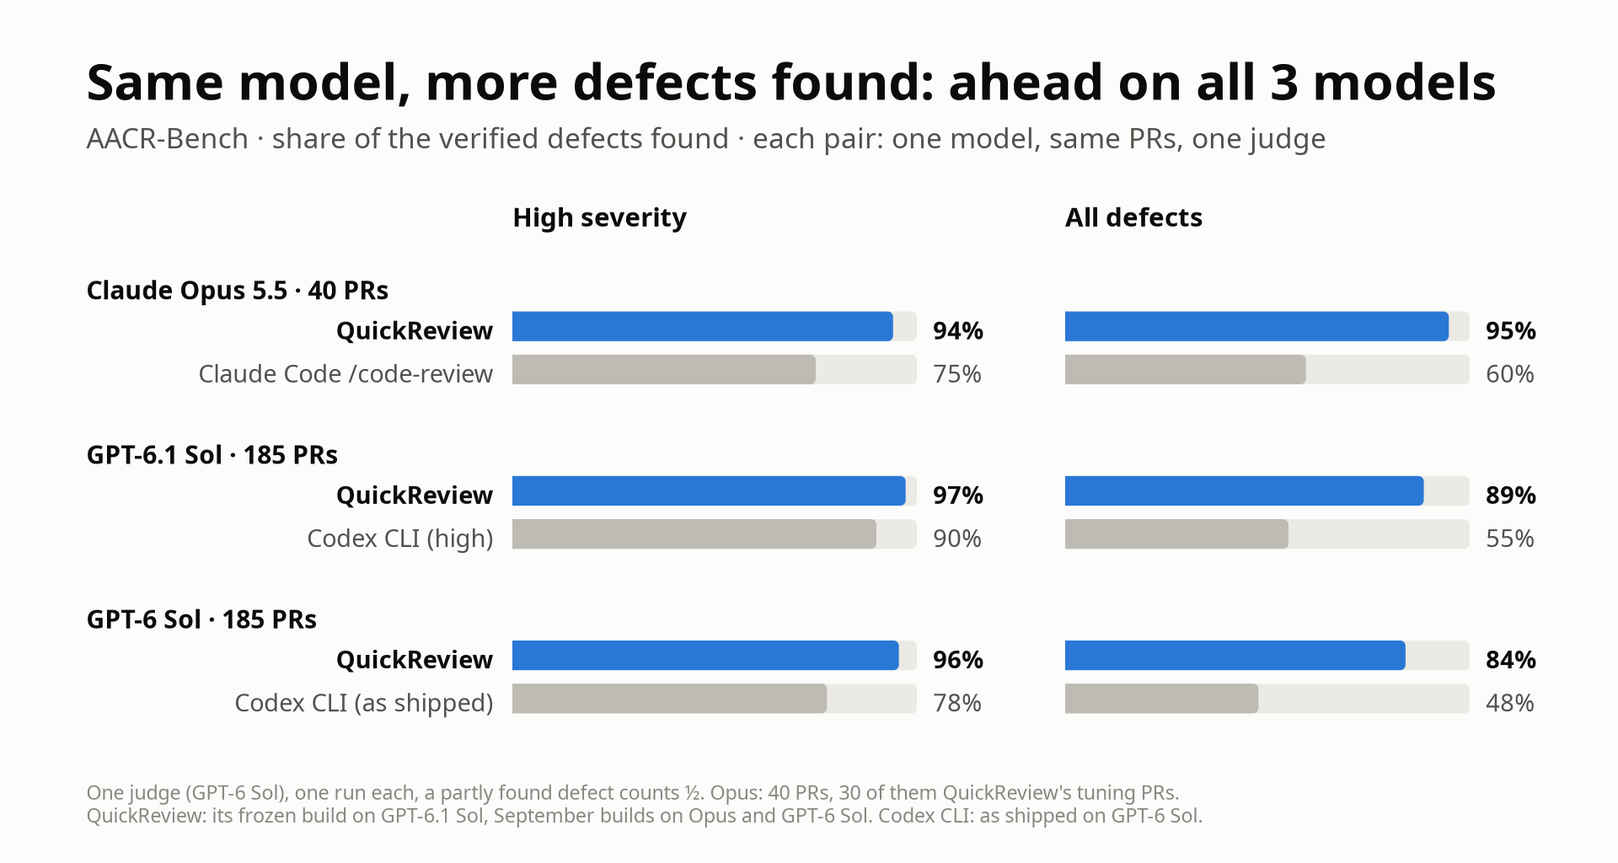
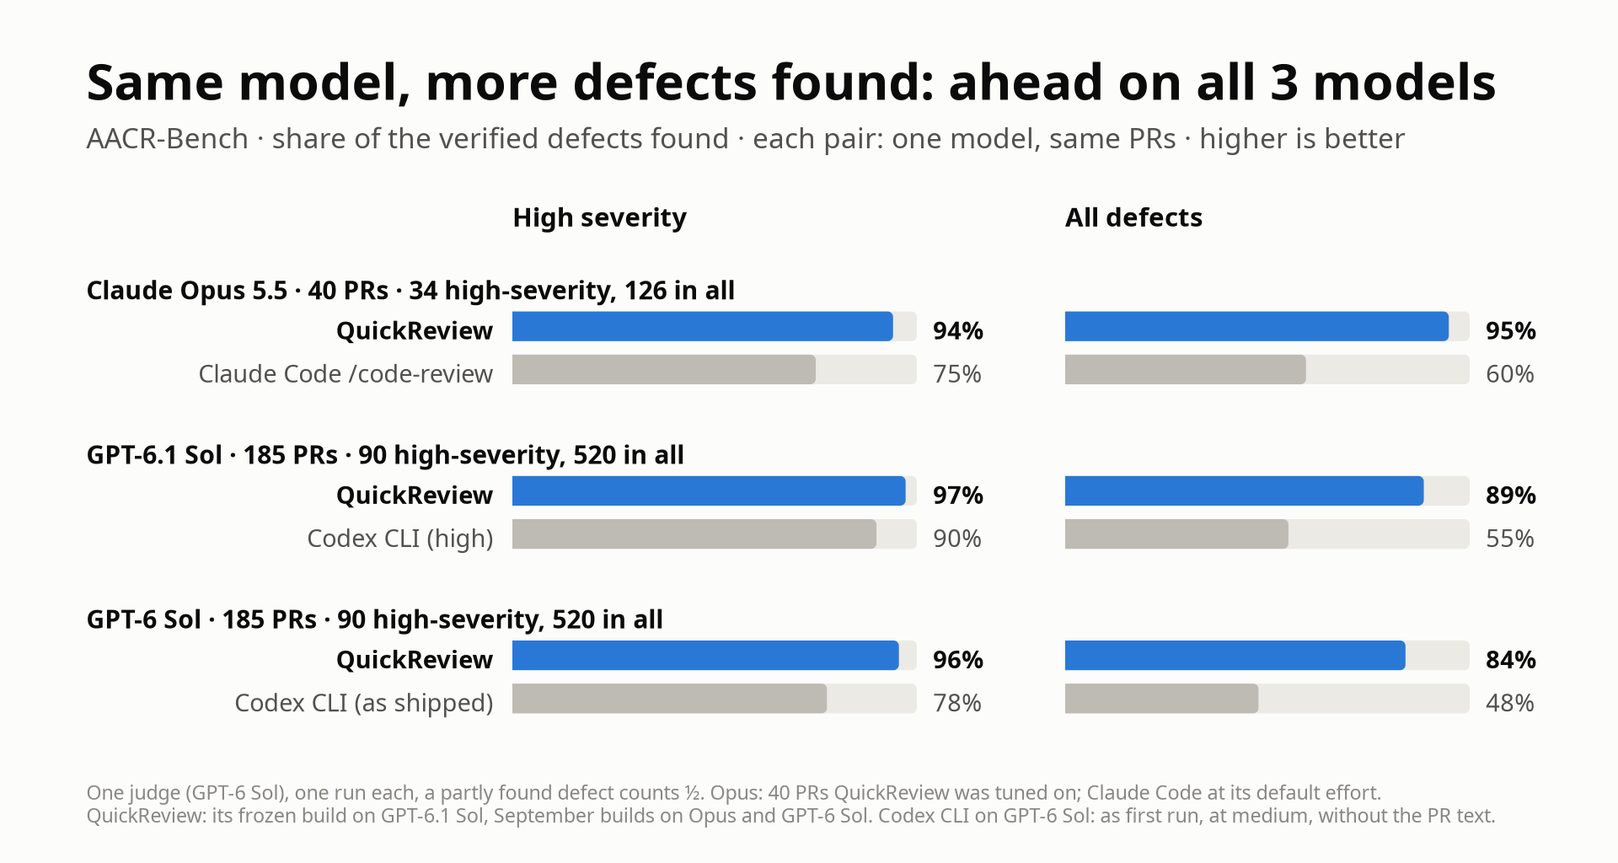
README benchmarks: every new claim scoped to what the runs trace
A verification pass over the new text and charts. The hero names the
model, quotes both metrics for both same-model pairs, says the 109 PRs
are found in full, and carries the tuning disclosure. The same-model
paragraph no longer reads a harness effect into a two-tool contrast, and
the Opus pair is all tuning PRs. The Elo chart's title is the one
separated pair, its set rule and builds are named, and Claude Code max
names its Opus main model. The other-models table names efforts, builds
and the best third-party count per column; GLM lost a pass on 7 PRs, not
10. The misses chart repeated the hero's middle panel and is gone. The
held-out Qodo F1 is level, not a lead. readme_charts.py pins the
all-defect totals to tab:final and requires a 2-point lead for a title.

diff --git a/bench/aacr/showcase/readme_charts.py b/bench/aacr/showcase/readme_charts.py
@@ -11,7 +11,7 @@ The numbers are the papers' tables, copied here with the table each row comes fr
 README's charts and its prose read the same source: AACR-Bench is benchmark.tex Table
 tab:final (QuickReview's row: its frozen build, quickreview.tex Table tab:frozen), Martian is
 benchmark.tex Table tab:martianfinal, Qodo is benchmark.tex Table tab:qodo. The serious-defect
-counts (bench-hero, bench-misses) are computed from the per-defect credits in data/aacr.json,
+counts (bench-hero) are computed from the per-defect credits in data/aacr.json,
 the same runs as tab:final. Every title is computed from the rows. The look is v4's (theme_v4);
 the images carry no repo file names.
 """
@@ -70,20 +70,21 @@ QODO = [  # (name, precision, recall)
 
 # The same base model in two reviewers, AACR-Bench, one judge (GPT-6 Sol at high) for both rows of a pair.
 SAME_MODEL = [  # (model, PRs, high defects, all defects, [(reviewer, high found, all found)])
-    # quickreview.tex Table tab:bm40 (QuickReview on Opus, 40 PRs: smoke10, dev10, holdout10, fresh10) and
+    # quickreview.tex Table tab:bm40 (QuickReview on Opus, the 40 T40 PRs it was tuned on, September build) and
     # benchmark.tex Table tab:halves-sol (Claude Code on the same 40, its 185-PR runs cut to them).
     ("Claude Opus 5.5", 40, 34, 126, [("QuickReview", 32, 119.5), ("Claude Code /code-review", 25.5, 75)]),
     # benchmark.tex Table tab:final: the frozen build and Codex CLI at high.
     ("GPT-6.1 Sol", 185, 90, 520, [("QuickReview", 87.5, 461), ("Codex CLI (high)", 81, 287)]),
-    # benchmark.tex Table tab:sol-summary: the original default run and Codex CLI as shipped (medium).
+    # benchmark.tex Table tab:sol-summary: the original default run and Codex CLI as first run (medium, no PR text).
     ("GPT-6 Sol", 185, 90, 520, [("QuickReview", 86, 437.5), ("Codex CLI (as shipped)", 70, 248.5)]),
 ]
 
-# Pairwise Elo on Martian's hard20 (the 20 PRs QuickReview on GPT-6.1 Sol and DeepSeek V4.1 Flash did worst
-# on), both judges pooled: the "Combined" table of the run archive's elo/martian-hard20-all-gpt/REPORT.md.
-# QuickReview's Opus and Sonnet runs kept the image's six quality lenses on GPT-6 Luna (about a fifth of calls).
+# Pairwise Elo on Martian's hard20 (the 20 PRs QuickReview on GPT-6.1 Sol or DeepSeek V4.1 Flash did worst on
+# against its own average), both judges pooled: the "Combined" table of the run archive's
+# elo/martian-hard20-all-gpt/REPORT.md. QuickReview's Opus and Sonnet runs kept the image's six lenses pinned to
+# GPT-6 Luna (maintainability, duplication, abstraction, consistency, placement, simplicity).
 ELO = [  # (name, Elo, 95% low, 95% high, QuickReview?)
-    ("Claude Code max (Sonnet 5.5 agents)", 1666, 1581, 1794, False),
+    ("Claude Code max (Opus + Sonnet 5.5)", 1666, 1581, 1794, False),
     ("QuickReview (Opus 5.5)*", 1628, 1567, 1726, True),
     ("QuickReview (GPT-6.1 Sol)", 1566, 1486, 1662, True),
     ("Claude Code high (Opus 5.5)", 1518, 1425, 1629, False),
@@ -92,7 +93,8 @@ ELO = [  # (name, Elo, 95% low, 95% high, QuickReview?)
     ("Claude Code high (Sonnet 5.5)", 1398, 1290, 1456, False),
     ("QuickReview (GLM-5.3 Flash)", 1329, 1110, 1477, True),
 ]
-ELO_DIRECT = ("QuickReview (Opus 5.5)*", "Claude Code high (Opus 5.5)", 29, 11)  # the pair's direct record, both judges
+# One pair from the same REPORT's every-pair table: direct record over both judges, and the gap's 95% interval.
+ELO_DIRECT = ("QuickReview (Opus 5.5)*", "Claude Code high (Opus 5.5)", 29, 11, (31, 196))
 
 DATA = os.path.join(os.path.dirname(os.path.abspath(__file__)), "data", "aacr.json")
 KEYS = {"quickreview": QR, "pi-review": "pi-review panel", "claude-code": "Claude Code",
@@ -114,7 +116,8 @@ def serious():
                    "found": sum(x["credit"][k] for x in ser),
                    "clean": sum(all(x["credit"][k] == 1.0 for x in xs) for xs in prs.values())}
             for k, name in KEYS.items()}
-    assert {n: r["high"] for n, r in rows.items()} == {r[0]: r[1] for r in AACR}, "data/aacr.json is not tab:final"
+    assert {n: (r["high"], sum(x["credit"][k] for x in d["defects"])) for k, n in KEYS.items() for r in [rows[n]]} \
+        == {r[0]: (r[1], r[2]) for r in AACR}, "data/aacr.json is not tab:final"
     return rows, len(high), len(ser), len(prs), d["cases"]
 
 
@@ -212,25 +215,30 @@ def fig_qodo(T):
         lambda q: q[1], lambda q: q[2])
 
 
-AACR_SOURCE = ("520 defects each verified in the code; one judge (GPT-6 Sol), one run per reviewer, a partly found "
-               "defect counts ½.\nQuickReview: its frozen build. " + OTHERS)
+HERO_SOURCE = ("520 defects each verified in the code; one judge (GPT-6 Sol), one run each, a partly found one counts ½. "
+               + OTHERS.replace("Other reviewers: all", "Others").replace(" (Claude Opus 5.5)", " (Opus 5.5)")
+               + "\nQuickReview: its frozen build, its last changes mined from its misses on 145 of these PRs; on the 20 "
+                 "kept out, it finds 83% of all defects, the next best 72%.")
+MARGIN = {"high": 2.0, "missed": 2.0, "clean": 2.0}  # never headline a lead under 2 points (or 2 per 100 PRs, 2 PRs)
 
 
 def fig_hero(T):
     """Three numbers on serious defects, each over the field it was measured against."""
     S, n_high, n_ser, n_prs, n_cases = serious()
-    best = {"high": max, "missed": min, "clean": max}
-    lead = all(S[QR][k] == f(r[k] for r in S.values()) for k, f in best.items())
+    def gap(k, sign):  # QuickReview's lead over the next reviewer, in the panel's own unit (points for high)
+        nxt = max(sign * r[k] for n, r in S.items() if n != QR)
+        return (sign * S[QR][k] - nxt) * (100 / n_high if k == "high" else 1)
+    lead = all(gap(k, sg) >= MARGIN[k] for k, sg in (("high", 1), ("missed", -1), ("clean", 1)))
     p = Page4(T, h=560)
-    p.title("Most serious defects found, fewest missed" if lead else "Serious defects found and missed")
+    p.title("Most high-severity defects found, fewest serious missed" if lead else "Serious defects found and missed")
     p.metric(f"AACR-Bench · {n_cases} real PRs · serious = the {n_ser} high- and medium-severity defects · "
              "QuickReview on GPT-6.1 Sol")
     panels = [  # (key, big number, what it is, the bar's full length, a bar's value label, higher is better)
         ("high", pct(100 * S[QR]["high"] / n_high), f"of the {n_high} high-severity defects found", n_high,
          lambda v: pct(100 * v / n_high), True),
-        ("missed", f"{S[QR]['missed']:.0f}", "serious defects missed per 100 PRs",
+        ("missed", f"{S[QR]['missed']:.1f}", "serious defects missed per 100 PRs",
          max(r["missed"] for r in S.values()), lambda v: f"{v:.1f}", False),
-        ("clean", f"{S[QR]['clean']} of {n_prs}", "PRs with every serious defect found", n_prs,
+        ("clean", f"{S[QR]['clean']} of {n_prs}", "PRs with every serious defect found in full", n_prs,
          lambda v: f"{v:.0f}", True),
     ]
     col, top = 372, 296
@@ -239,35 +247,21 @@ def fig_hero(T):
         rows = sorted(S.items(), key=lambda kv: -kv[1][k] if up else kv[1][k])
         nxt = next(r for n, r in rows if n != QR)
         p.text(x0, 196, big, size=50, weight="bold", color=T["qr"], va="baseline")
-        p.text(x0, 232, what, size=14.5, va="baseline")
-        p.text(x0, 258, f"next best: {fmt(nxt[k])}", size=12.5, color=T["ink2"], va="baseline")
+        p.text(x0, 232, what, size=13.5, va="baseline")
+        p.text(x0, 258, f"next best: {fmt(nxt[k])} · {'higher' if up else 'lower'} is better", size=12.5,
+               color=T["ink2"], va="baseline")
         pitch = 26
         for j, (name, r) in enumerate(rows):
             y = top + pitch * (j + 0.5)
             ours = name == QR
             ink, wt = (T["ink"], "bold") if ours else (T["ink2"], "normal")
-            bx0, bx1 = x0 + 128, x0 + 268
+            bx0, bx1 = x0 + 128, x0 + 250
             if up:
                 theme.bar(p.c, bx0, bx1, y, 14, T["empty"], zorder=2)
             theme.bar(p.c, bx0, bx0 + (bx1 - bx0) * r[k] / vmax, y, 14, T["qr"] if ours else T["other"], zorder=3)
-            p.text(bx0 - 10, y, "QuickReview" if ours else name, ha="right", size=11, color=ink, weight=wt)
-            p.text((bx1 if up else bx0 + (bx1 - bx0) * r[k] / vmax) + 8, y, fmt(r[k]), size=11, color=ink, weight=wt)
-    p.source(AACR_SOURCE)
-    return p
-
-
-def fig_misses(T):
-    """Serious defects missed per 100 PRs: the shortest bar is the best reviewer."""
-    S, _, n_ser, _, n_cases = serious()
-    rows = sorted(S.items(), key=lambda kv: kv[1]["missed"])
-    p = Page4(T, h=600)
-    p.title("Misses the fewest serious defects" if rows[0][0] == QR else "Serious defects missed")
-    p.metric(f"AACR-Bench · {n_cases} real PRs · high- and medium-severity defects missed per 100 PRs "
-             f"({n_ser} in all) · lower is better")
-    theme.bar_rows(p, [{"name": n, "value": r["missed"], "qr": n == QR,
-                        "label": f"{r['missed']:.1f}   finds {pct(100 * r['found'] / n_ser)}"} for n, r in rows],
-                   330, 1000, 170, p.h - 96, max(r["missed"] for _, r in rows))
-    p.source(AACR_SOURCE)
+            p.text(bx0 - 10, y, "QuickReview" if ours else name, ha="right", size=12, color=ink, weight=wt)
+            p.text((bx1 if up else bx0 + (bx1 - bx0) * r[k] / vmax) + 8, y, fmt(r[k]), size=12, color=ink, weight=wt)
+    p.source(HERO_SOURCE)
     return p
 
 
@@ -277,7 +271,7 @@ def fig_same_model(T):
     p = Page4(T, h=640)
     p.title(f"Same model, more defects found: ahead on all {len(SAME_MODEL)} models" if lead
             else "Same model, two reviewers")
-    p.metric("AACR-Bench · share of the verified defects found · each pair: one model, same PRs, one judge")
+    p.metric("AACR-Bench · share of the verified defects found · each pair: one model, same PRs · higher is better")
     cols = [("High severity", 1, 2, 380), ("All defects", 2, 3, 790)]
     top, width = 190, 300
     for head, _, _, x0 in cols:
@@ -285,7 +279,8 @@ def fig_same_model(T):
     y = top
     for model, n_prs, n_high, n_all, pair in SAME_MODEL:
         y += 22
-        p.text(64, y, f"{model} · {n_prs} PRs", size=13.5, weight="bold", color=T["ink"])
+        p.text(64, y, f"{model} · {n_prs} PRs · {n_high} high-severity, {n_all} in all", size=13.5, weight="bold",
+               color=T["ink"])
         y += 30
         for name, *found in pair:
             ours = name == "QuickReview"
@@ -298,23 +293,23 @@ def fig_same_model(T):
                 p.text(x0 + width + 12, y, pct(100 * share), size=13, color=ink, weight=wt)
             y += 32
         y += 6
-    p.source("One judge (GPT-6 Sol), one run each, a partly found defect counts ½. Opus: 40 PRs, 30 of them QuickReview's "
-             "tuning PRs.\nQuickReview: its frozen build on GPT-6.1 Sol, September builds on Opus and GPT-6 Sol. "
-             "Codex CLI: as shipped on GPT-6 Sol.")
+    p.source("One judge (GPT-6 Sol), one run each, a partly found defect counts ½. Opus: 40 PRs QuickReview was tuned on; "
+             "Claude Code at its default effort.\nQuickReview: its frozen build on GPT-6.1 Sol, September builds on Opus "
+             "and GPT-6 Sol. Codex CLI on GPT-6 Sol: as first run, at medium, without the PR text.")
     return p
 
 
 def fig_elo(T):
     """A pairwise Elo leaderboard: a dot per configuration, its 95% interval as a whisker."""
     rows = sorted(ELO, key=lambda r: -r[1])
-    first = next(k for k, r in enumerate(rows) if r[4])
-    title = (f"Judged side by side: {ordinal(first + 1)} of {len(rows)}, behind only {rows[0][0].split(' (')[0]}"
-             if first == 1 else f"Judged side by side: {ordinal(first + 1)} of {len(rows)}")
+    _, _, w, l, gap = ELO_DIRECT
+    separated = gap[0] > 0 and w > l  # the gap's interval excludes zero, and it won the games
     p = Page4(T, h=640)
-    p.title(title)
-    p.metric(f"Martian · the 20 PRs QuickReview did worst on · pairwise Elo with 95% intervals · higher is better")
+    p.title(f"On Opus 5.5, QuickReview beats Claude Code high {w}–{l}" if separated
+            else "Judged side by side")
+    p.metric("Martian · 20 PRs where QuickReview (GPT-6.1 Sol, DeepSeek) did worst · Elo, 95% intervals · higher is better")
     lo, hi = 1100, 1850
-    x0, x1, top, bottom = 400, p.w - 90, 186, p.h - 110
+    x0, x1, top, bottom = 420, p.w - 90, 186, p.h - 110
     X = lambda v: x0 + (x1 - x0) * (v - lo) / (hi - lo)  # noqa: E731
     for v in range(lo, hi + 1, 150):
         p.c.plot([X(v)] * 2, [top - 10, bottom + 4], color=T["grid"], lw=1, zorder=1)
@@ -328,13 +323,13 @@ def fig_elo(T):
         dot(p, X(elo), y, 7, fill, zorder=5)
         p.text(x0 - 16, y, name, ha="right", size=13, color=ink, weight=wt)
         p.text(X(b) + 10, y, str(elo), size=12, color=ink, weight=wt)
-    a, b, w, l = ELO_DIRECT
-    p.source("Two judges pooled, GPT-6.1 Sol and Claude Opus 5.5, each reading both reviews blind; alone, each favours its "
-             f"own model family.\n* Six quality lenses on GPT-6 Luna. Head to head, {a.rstrip('*')} beat {b} {w}–{l}.")
+    p.source(f"Two judges pooled (GPT-6.1 Sol, Claude Opus 5.5), each reading both reviews blind; {w}–{l} is their verdicts "
+             "on 20 PRs.\n* Six of its lenses on GPT-6 Luna. QuickReview builds: Oct 3 on GPT-6.1 Sol, mid-October on "
+             "DeepSeek and GLM, Oct 20 on Opus and Sonnet.")
     return p
 
 
-FIGURES = {"bench-hero": fig_hero, "bench-misses": fig_misses, "bench-same-model": fig_same_model,
+FIGURES = {"bench-hero": fig_hero, "bench-same-model": fig_same_model,
            "bench-aacr": fig_aacr, "bench-martian": fig_martian, "bench-qodo": fig_qodo, "bench-elo": fig_elo}
 
 

diff --git a/README.md b/README.md
@@ -20,18 +20,20 @@ re-derives every candidate from the code** before one review is posted.
 
 <picture>
   <source media="(prefers-color-scheme: dark)" srcset="docs/media/bench-hero-dark.png">
-  <img src="docs/media/bench-hero.png" alt="AACR-Bench, 185 real PRs, QuickReview on GPT-6.1 Sol against six other reviewers. High-severity defects found: QuickReview 97%, next best Codex CLI 90%. Serious (high- and medium-severity) defects missed per 100 PRs: QuickReview 7, next best pi-review panel 19.5, worst PR-Agent 59.2. PRs with every serious defect found: QuickReview 109 of 122, next best pi-review panel 90.">
+  <img src="docs/media/bench-hero.png" alt="AACR-Bench, 185 real PRs, QuickReview on GPT-6.1 Sol against six other reviewers. High-severity defects found: QuickReview 97%, next best Codex CLI 90%. Serious (high- and medium-severity) defects missed per 100 PRs: QuickReview 7, next best pi-review panel 19.5, worst PR-Agent 59.2. PRs with every serious defect found in full: QuickReview 109 of 122, next best pi-review panel 90.">
 </picture>
 
-On 185 real PRs with 520 defects each verified in the code, it finds
-**97% of the high-severity defects** and **89% of all of them**. It misses
-**7 serious defects per 100 PRs**, where the best of the six other reviewers
-we ran misses 19.5, and on **109 of the 122 PRs** that carry a high- or
-medium-severity defect it finds every one. It is not just the model: on the
-same model it finds more than the model maker's own reviewer, 94% of the
-high-severity defects against 75% for Claude Code on Claude Opus 5.5 (40
-PRs), and 89% of all defects against 55% for Codex CLI on GPT-6.1 Sol. That
-recall costs more: about $2 and 17 minutes per PR, where the other tools take
+On 185 real PRs with 520 defects each verified in the code, QuickReview on
+GPT-6.1 Sol finds **97% of the high-severity defects** and **89% of all of
+them**. It misses **7 serious defects per 100 PRs**, where the best of the six
+other reviewers we ran misses 19.5, and on **109 of the 122 PRs** that carry a
+high- or medium-severity defect it finds every one in full. On the same model
+it also finds more than the model maker's own reviewer: 97% and 89% against
+90% and 55% for Codex CLI on GPT-6.1 Sol, and 94% and 95% against 75% and 60%
+for Claude Code's `/code-review` on Claude Opus 5.5 (40 PRs it was tuned on).
+Its last changes were mined from its misses on 145 of the 185 PRs; on the 20
+kept out, it finds 83% of all defects and the next best 72%. That recall costs
+more: about $2 and 17.5 minutes per PR, where the other tools take
 $0.07–0.53 and 0.7–2.3 minutes ([Benchmarks](#benchmarks)).
 
 <p align="center">
@@ -80,10 +82,12 @@ The lens catalogue, with each lens's trigger and severity cap, is §3.3 of the
 
 Recall is the headline: a review that misses the defect has failed, whatever
 else it does. Precision, cost and time are shown beside it, because that is
-where QuickReview pays. Its results are the frozen build of 2026-10-04 on
-`gpt-6.1-sol`, shipped defaults, one review per PR. The third-party tools we
-ran used the best configuration we found for each, the OpenAI-based ones on
-the same model, under the same judge on the same PRs.
+where QuickReview pays. Unless a chart or table names another build or model,
+its results are the frozen build of 2026-10-04 on `gpt-6.1-sol`, shipped
+defaults, one review per PR. The third-party tools we ran used the best
+configuration we found for each (except Claude Code, which ran `/code-review`
+at its default effort and was not varied), the OpenAI-based ones on the same
+model, under the same judge on the same PRs.
 
 <picture>
   <source media="(prefers-color-scheme: dark)" srcset="docs/media/bench-aacr-dark.png">
@@ -97,25 +101,24 @@ under a paired bootstrap on high and on high + medium defects (+8.3 points
 [+1.9, +14.6] on high over the panel). The price: 6.9 comments per PR, 42%
 of them true but minor.
 
-<picture>
-  <source media="(prefers-color-scheme: dark)" srcset="docs/media/bench-misses-dark.png">
-  <img src="docs/media/bench-misses.png" alt="AACR-Bench, 185 PRs: high- and medium-severity defects missed per 100 PRs, 235 in all, lower is better. QuickReview 7.0 (finds 94%), pi-review panel 19.5 (85%), Codex CLI 28.4 (78%), Claude Code 31.1 (76%), OpenCode 32.4 (74%), open-code-review 37.6 (70%), PR-Agent 59.2 (53%).">
-</picture>
-
-**What it misses.** Counted the other way, on the 235 high- and
-medium-severity defects alone: QuickReview misses 13 of them (10 outright,
-6 found in part), 7 per 100 PRs; the next reviewer misses 36.
+**What it misses.** Of the 235 high- and medium-severity defects,
+QuickReview misses 13, counting a partly found defect as half (10 missed
+outright, 6 found only in part): 7 per 100 PRs. The next best, the pi-review
+panel, misses 36 (19.5 per 100 PRs). On the 20 PRs kept out of its last
+tuning round it misses 2 of 31, the panel 5.
 
 <picture>
   <source media="(prefers-color-scheme: dark)" srcset="docs/media/bench-same-model-dark.png">
   <img src="docs/media/bench-same-model.png" alt="AACR-Bench, the same base model in two reviewers, one judge. Claude Opus 5.5, 40 PRs: QuickReview found 94% of the high-severity defects and 95% of all, Claude Code /code-review 75% and 60%. GPT-6.1 Sol, 185 PRs: QuickReview 97% and 89%, Codex CLI at high 90% and 55%. GPT-6 Sol, 185 PRs: QuickReview 96% and 84%, Codex CLI as shipped 78% and 48%.">
 </picture>
 
-**Same model, two reviewers.** The lead is the harness, not the model: on
-each of the three models we ran it on, QuickReview finds more than the model
-maker's own reviewer, at several times the cost ($3.24 against $0.16 per PR
-on Opus). The Opus pair covers 40 PRs, 30 of them QuickReview's tuning PRs;
-on the other 10 it found 28 of 29 defects, Claude Code 20.
+**Same model, two reviewers.** With the model held fixed, QuickReview still
+finds more than the model maker's own reviewer on each of the three models
+where we ran both, at 11 to 20 times the cost ($3.24 against $0.16 per PR on
+Opus). This contrasts two tools, not a measured design effect: they also
+differ in budget and inputs, Claude Code ran `/code-review` at its default
+effort, the Opus and GPT-6 Sol rows are September builds of QuickReview, and
+the 40 Opus PRs are all PRs QuickReview was tuned on.
 
 <picture>
   <source media="(prefers-color-scheme: dark)" srcset="docs/media/bench-martian-dark.png">
@@ -141,17 +144,19 @@ overall, at the lowest precision; it is fourth on F1.
 
 <picture>
   <source media="(prefers-color-scheme: dark)" srcset="docs/media/bench-elo-dark.png">
-  <img src="docs/media/bench-elo.png" alt="Pairwise Elo on the 20 Martian PRs QuickReview did worst on, two judges pooled, with 95% intervals. Claude Code max with Sonnet 5.5 agents 1666, QuickReview on Opus 5.5 1628, QuickReview on GPT-6.1 Sol 1566, Claude Code high on Opus 5.5 1518, QuickReview on Sonnet 5.5 1489, QuickReview on DeepSeek V4.1 Flash 1406, Claude Code high on Sonnet 5.5 1398, QuickReview on GLM-5.3 Flash 1329.">
+  <img src="docs/media/bench-elo.png" alt="Pairwise Elo on the 20 Martian PRs where QuickReview on GPT-6.1 Sol or DeepSeek did worst, two judges pooled, with 95% intervals. Claude Code max, Opus 5.5 directing Sonnet 5.5 agents, 1666, QuickReview on Opus 5.5 1628, QuickReview on GPT-6.1 Sol 1566, Claude Code high on Opus 5.5 1518, QuickReview on Sonnet 5.5 1489, QuickReview on DeepSeek V4.1 Flash 1406, Claude Code high on Sonnet 5.5 1398, QuickReview on GLM-5.3 Flash 1329.">
 </picture>
 
 **Judged side by side.** A pairwise judge reads two reviews of the same PR
-blind and picks the better one; GPT-6.1 Sol and Claude Opus 5.5 both judged,
-and a Bradley-Terry fit turns 596 verdicts into Elo. On the 20 Martian PRs
-where QuickReview's recall was worst, QuickReview on Opus 5.5 (its six
-quality lenses on GPT-6 Luna) beat Claude Code's `/code-review` on Opus 5.5
-29–11, and trails only Claude Code's max fan-out mode, by a margin inside the
-intervals. Each judge alone favours its own model family, which is why
-both are pooled.
+blind and picks the better one. GPT-6.1 Sol and Claude Opus 5.5 both judged,
+and a Bradley-Terry fit over their 596 verdicts gives Elo; alone, the two
+judges pick the same winner only 56% of the time, which is why they are
+pooled. On the 20 Martian PRs where QuickReview on GPT-6.1 Sol or DeepSeek did
+worst, QuickReview on Opus 5.5 (six of its lenses on GPT-6 Luna) beat Claude
+Code's `/code-review` at high effort on Opus 5.5 in 29 of 40 verdicts, at more
+than ten times its cost (about $4 per PR). Only Claude Code's max mode (Opus
+5.5 directing Sonnet 5.5 agents, about $20 per PR) ranks higher, by a margin
+inside the intervals.
 
 **Other models.** QuickReview's models are configurable. On AACR-Bench
 it holds most of its recall on cheap open models, and it falls apart on a
@@ -160,14 +165,19 @@ weak one:
 | QuickReview on | PRs | High found | All found | $/PR | Judge |
 |---|---|---|---|---|---|
 | GPT-6.1 Sol (frozen build) | 185 | 87.5 of 90 (97%) | 461 of 520 (89%) | 2.06 | gpt-6-sol |
-| DeepSeek V4.1 Flash | 185 | 83 of 90 (92%) | 451.5 of 520 (87%) | 0.74 | gpt-6.1-sol |
+| DeepSeek V4.1 Flash (mostly low effort) | 185 | 83 of 90 (92%) | 451.5 of 520 (87%) | 0.74 | gpt-6.1-sol |
 | GLM-5.3 Flash | 185 | 83 of 90 (92%) | 435 of 520 (84%) | 0.52 | gpt-6.1-sol |
-| gpt-6-luna | 185 | 39 of 90 (43%) | 147 of 520 (28%) | 0.04 | gpt-6-sol |
+| GPT-6 Luna | 185 | 39 of 90 (43%) | 147 of 520 (28%) | 0.04 | gpt-6-sol |
 | Claude Opus 5.5 | 40 | 32 of 34 (94%) | 119.5 of 126 (95%) | 3.24 | gpt-6-sol |
 
-The best third-party reviewer we ran finds 80 of 90 and 347.5 of 520 (67%).
-The open-model runs used a later build and a later judge than the third-party
-rows, and GLM lost a lens pass on 10 of its PRs; read them as directional.
+The strongest third-party reviewers we ran find 81 of 90 high-severity
+defects (Codex CLI) and 347.5 of 520 in all (67%, the pi-review panel). The
+open-model rows ran a later build (mid-October, with cost changes made after
+the freeze) and a later judge; DeepSeek ran at low reasoning effort on 143 of
+its PRs, and GLM's review was missing a lens pass on 7. The GPT-6 Luna and
+Opus rows ran a September build; on the same 40 PRs as Opus, the frozen
+GPT-6.1 Sol build finds 33 of 34 and 105 of 126. Read the table as
+directional.
 
 <details>
 <summary>The full tables</summary>
@@ -214,8 +224,8 @@ rows, and GLM lost a lens pass on 10 of its PRs; read them as directional.
 **Held-out PRs.** The last tuning round was mined from misses on part of
 each benchmark. On the PRs kept out of it, the frozen build finds 83% of
 AACR-Bench's defects (20 PRs), ties qodo-extended-v2 on Martian's real
-goldens (43 of 52, 30 PRs), and reaches 60.3% recall and F1 53.0 on Qodo
-(31 PRs), against 51.3 for qodo-exhaustive.
+goldens (43 of 52, 30 PRs), and on Qodo (31 PRs) reaches 60.3% recall and
+F1 53.0, level with qodo-exhaustive's 51.3.
 
 **Read more.** Two papers carry the method, every table and the threats to
 validity: [*Measuring whether a code review finds the real
